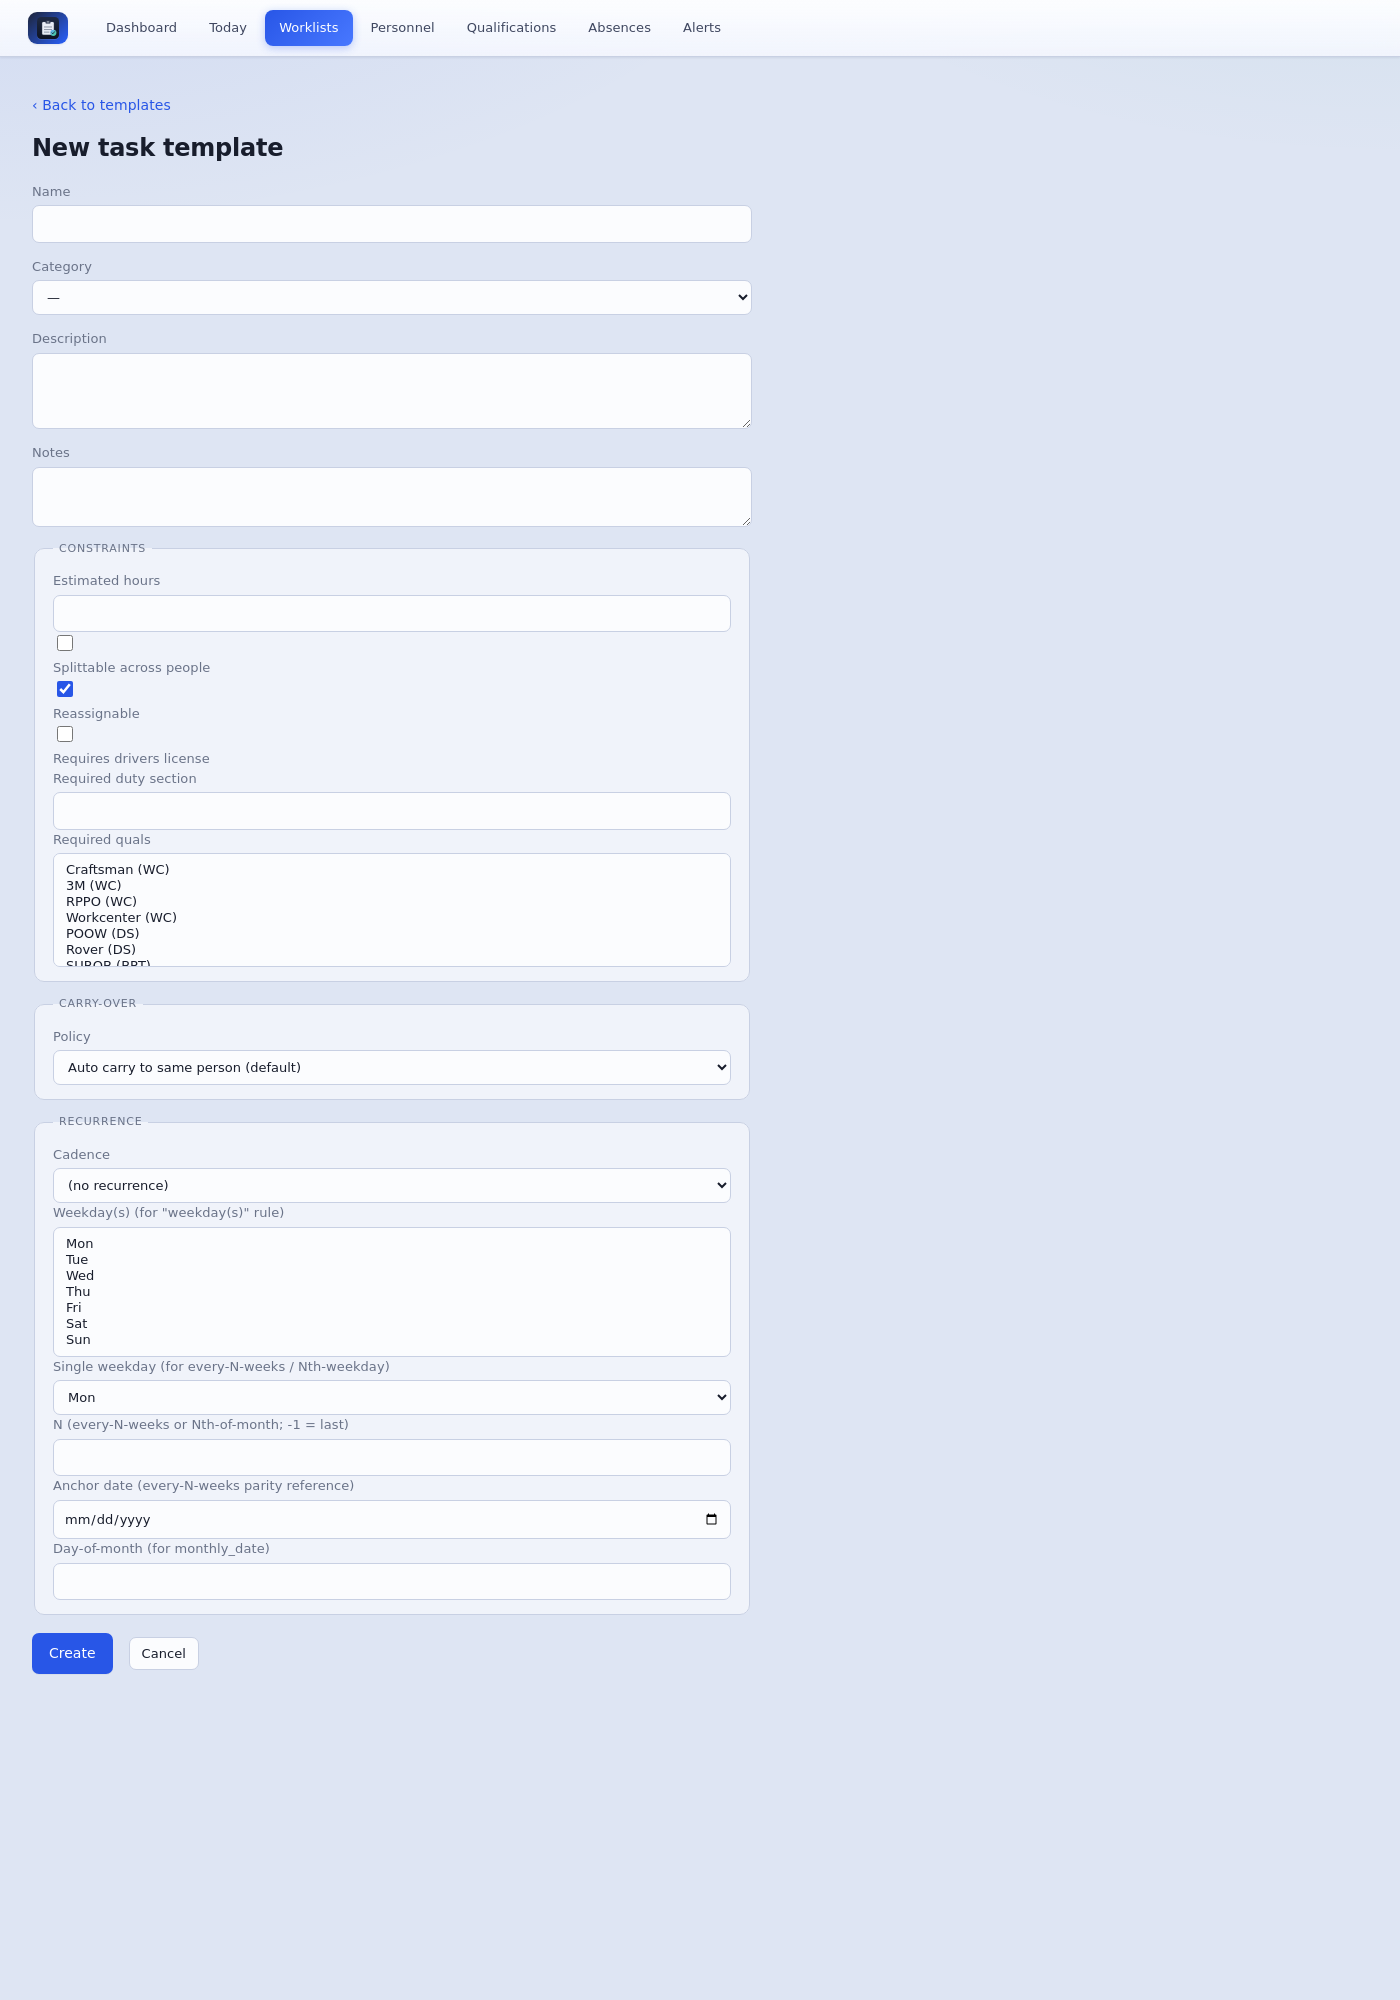
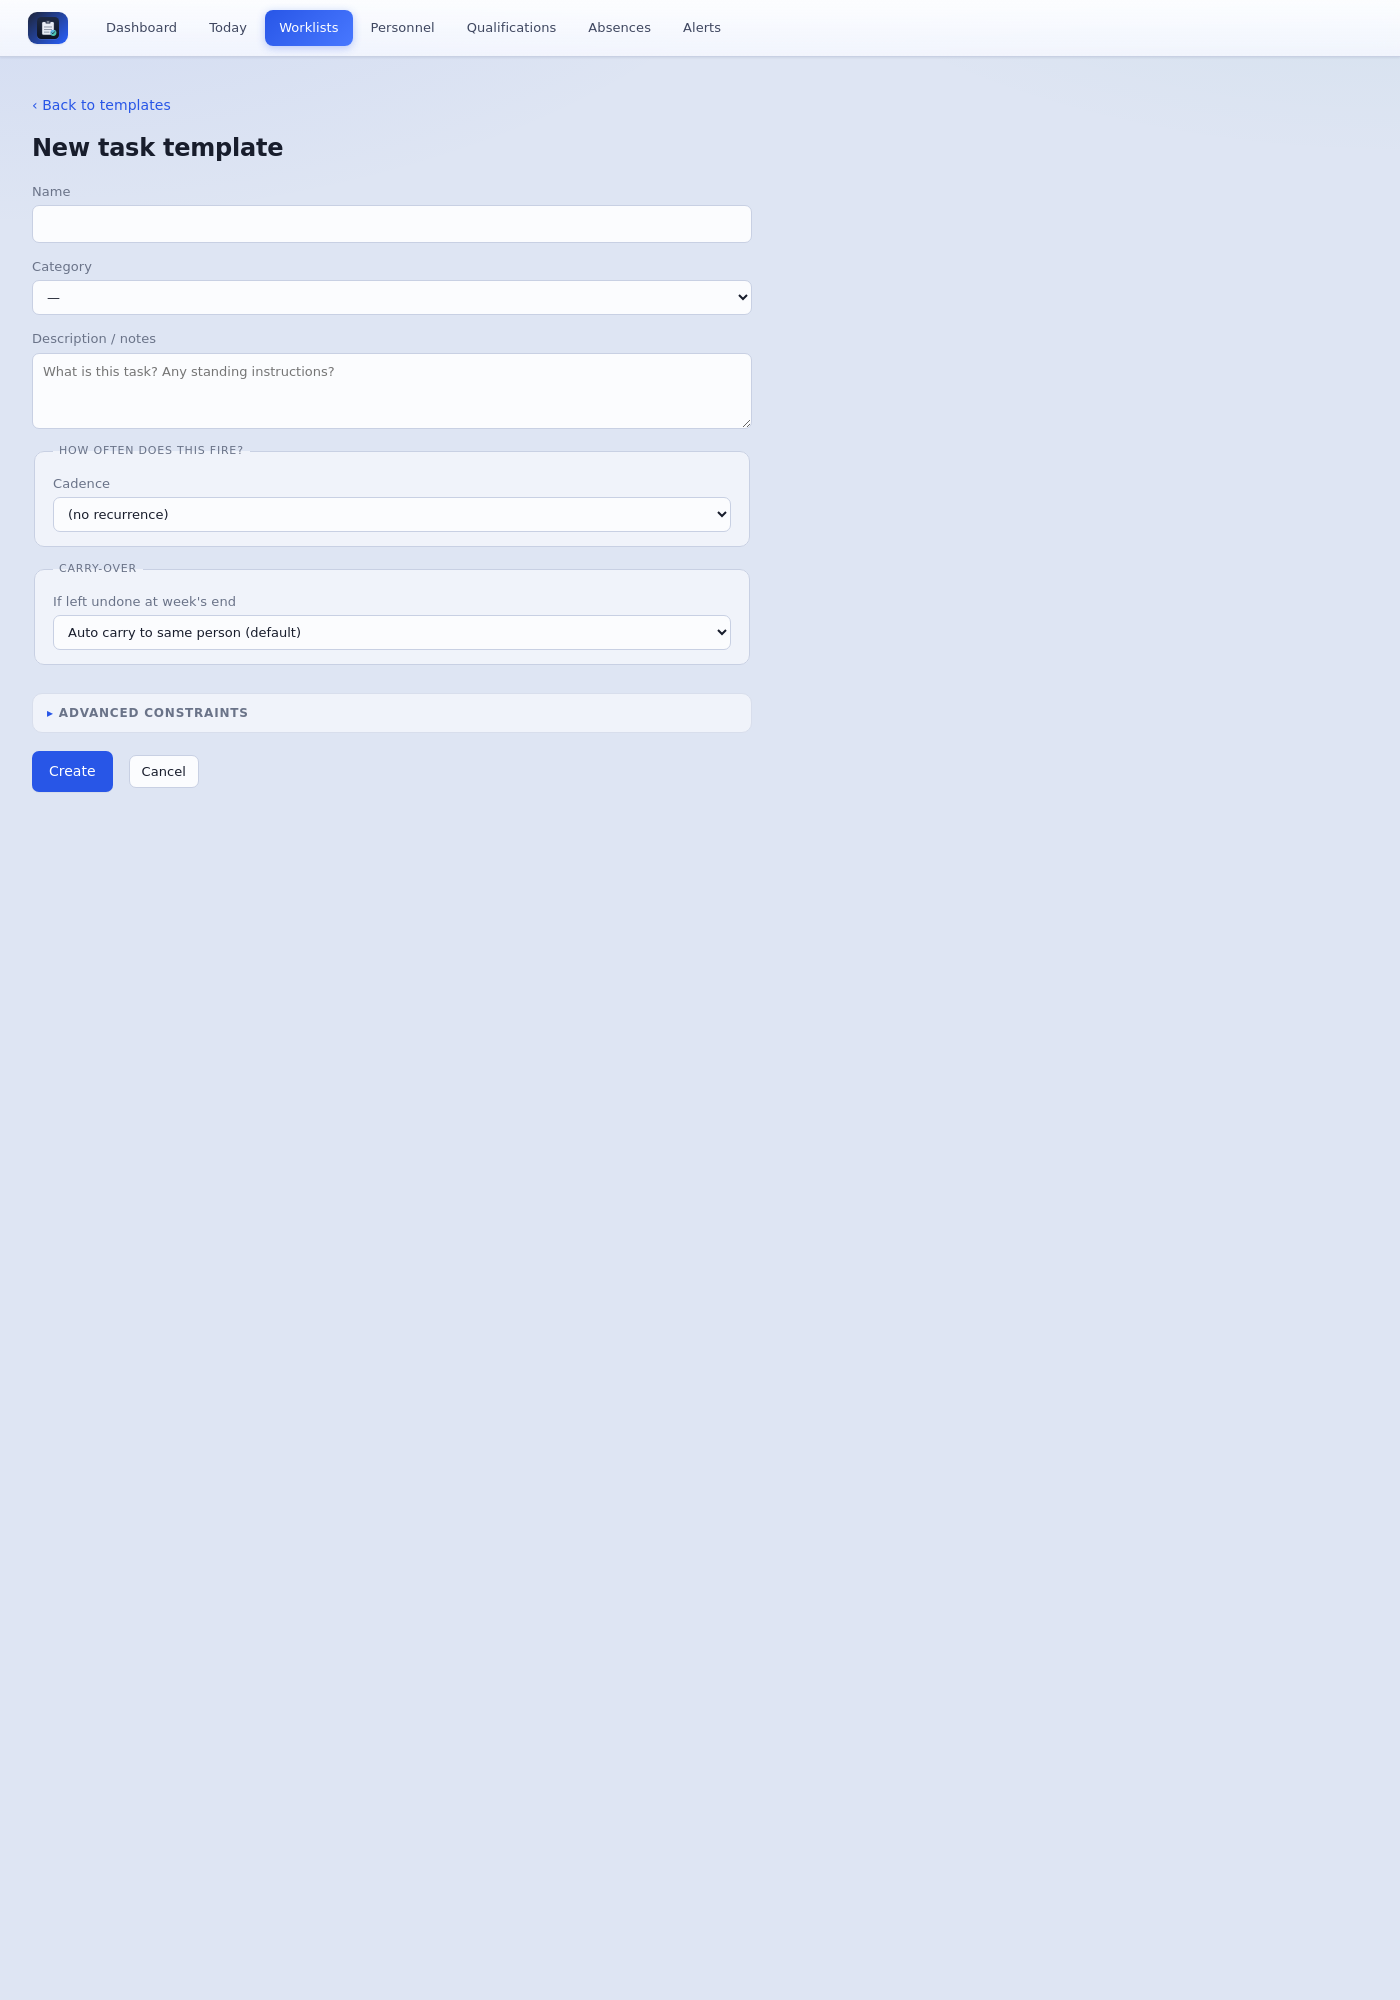
Streamline task template form: combined description, weekday checkboxes, advanced disclosure
Task template form was a wall of fieldsets. Reorganized:

- Description and notes combined into one field; second textarea
  removed everywhere (template form, task instance edit form,
  template list column).
- Recurrence section progressively reveals only the inputs relevant
  to the chosen cadence:
  * weekdays  -> a row of pill checkboxes (Mon..Sun) instead of a
    multi-select; the chosen pills tint accent.
  * every-N-weeks -> "Every [N] weeks on [weekday] starting from [date]"
    in a single readable row.
  * Nth weekday of month -> "The [1st|2nd|3rd|4th|last] [weekday] of
    every month".
  * Day-of-month -> "On day [N] of every month".
  * none -> nothing extra appears.
- Required quals / drivers license / duty section / estimated hours /
  splittable / reassignable now live behind an "Advanced constraints"
  disclosure since most templates don't need them.

Changed region(s): [[0.0, 0.217, 0.5221, 0.837], [0.4914, 0.248, 0.5221, 0.279], [0.1843, 0.31, 0.215, 0.341]]

diff --git a/app/templates/templates/_form.html b/app/templates/templates/_form.html
@@ -1,4 +1,6 @@
-{# shared fields between new + edit. context: template (Optional), cats, quals, required_qual_ids, carry_over_policies, recurrence_kinds, weekday_options #}
+{# Task template form (shared between new + edit). Simplified flow: the
+   essentials are visible; rare constraints (required quals / DL / DS,
+   estimated hours, etc.) live behind an "Advanced" disclosure. #}
 {% set t = template %}
 {% set rule = (t.recurrence_rule if t and t.recurrence_rule else {}) %}
 {% set cur_kind = rule.get("kind", "none") if rule else "none" %}
@@ -10,56 +12,108 @@
     {% for c in cats %}<option value="{{ c.id }}" {% if t and t.category_id == c.id %}selected{% endif %}>{{ c.name }}</option>{% endfor %}
   </select>
 </label>
-<label>Description <textarea name="description" rows="3">{{ t.description if t and t.description else '' }}</textarea></label>
-<label>Notes <textarea name="notes" rows="2">{{ t.notes if t and t.notes else '' }}</textarea></label>
+<label>Description / notes
+  <textarea name="description" rows="3" placeholder="What is this task? Any standing instructions?">{{ ((t.description if t and t.description else '') or (t.notes if t and t.notes else '')) }}</textarea>
+</label>
 
-<fieldset>
-  <legend>Constraints</legend>
-  <label>Estimated hours <input type="number" step="0.25" name="estimated_hours" value="{{ t.estimated_hours if t and t.estimated_hours else '' }}" /></label>
-  <label><input type="checkbox" name="splittable" value="1" {% if t and t.splittable %}checked{% endif %} /> Splittable across people</label>
-  <label><input type="checkbox" name="reassignable" value="1" {% if not t or t.reassignable %}checked{% endif %} /> Reassignable</label>
-  <label><input type="checkbox" name="required_drivers_license" value="1" {% if t and t.required_drivers_license %}checked{% endif %} /> Requires drivers license</label>
-  <label>Required duty section <input type="number" name="required_duty_section" min="1" max="20" value="{{ t.required_duty_section if t and t.required_duty_section else '' }}" /></label>
-  <label>Required quals
-    <select name="required_quals" multiple size="6">
-      {% for q in quals %}<option value="{{ q.id }}" {% if required_qual_ids and q.id in required_qual_ids %}selected{% endif %}>{{ q.name }}{% if q.category %} ({{ q.category }}){% endif %}</option>{% endfor %}
+<fieldset class="recur-fieldset">
+  <legend>How often does this fire?</legend>
+  <label>Cadence
+    <select name="rec_kind" id="rec_kind">
+      {% for val, label in recurrence_kinds %}<option value="{{ val }}" {% if cur_kind == val %}selected{% endif %}>{{ label }}</option>{% endfor %}
     </select>
   </label>
+
+  <div class="rec-block" data-rec-kinds="weekdays">
+    <label>Pick the weekday(s)</label>
+    <div class="weekday-checks">
+      {% for idx, name in weekday_options %}
+        <label class="weekday-check">
+          <input type="checkbox" name="rec_weekdays" value="{{ idx }}"
+                 {% if rule and rule.get("weekdays") and idx in rule.weekdays %}checked{% endif %} />
+          <span>{{ name }}</span>
+        </label>
+      {% endfor %}
+    </div>
+  </div>
+
+  <div class="rec-block rec-row" data-rec-kinds="every_n_weeks">
+    <label>Every
+      <input type="number" name="rec_n" min="1" value="{{ rule.get('n', 2) if rule else 2 }}" style="width:70px" />
+      weeks
+    </label>
+    <label>on
+      <select name="rec_weekday">
+        {% for idx, name in weekday_options %}<option value="{{ idx }}" {% if rule and rule.get("weekday") == idx %}selected{% endif %}>{{ name }}</option>{% endfor %}
+      </select>
+    </label>
+    <label>starting from
+      <input type="date" name="rec_anchor" value="{{ rule.get('anchor', '') if rule else '' }}" />
+    </label>
+  </div>
+
+  <div class="rec-block rec-row" data-rec-kinds="monthly_nth_weekday">
+    <label>The
+      <select name="rec_n">
+        {% for n, lbl in [(1,'1st'),(2,'2nd'),(3,'3rd'),(4,'4th'),(-1,'last')] %}
+          <option value="{{ n }}" {% if rule and rule.get("n") == n %}selected{% endif %}>{{ lbl }}</option>
+        {% endfor %}
+      </select>
+    </label>
+    <label>
+      <select name="rec_weekday">
+        {% for idx, name in weekday_options %}<option value="{{ idx }}" {% if rule and rule.get("weekday") == idx %}selected{% endif %}>{{ name }}</option>{% endfor %}
+      </select>
+    </label>
+    <span class="muted">of every month</span>
+  </div>
+
+  <div class="rec-block rec-row" data-rec-kinds="monthly_date">
+    <label>On day
+      <input type="number" name="rec_day" min="1" max="31" value="{{ rule.get('day', '') if rule else '' }}" style="width:70px" />
+    </label>
+    <span class="muted">of every month</span>
+  </div>
 </fieldset>
 
 <fieldset>
   <legend>Carry-over</legend>
-  <label>Policy
+  <label>If left undone at week's end
     <select name="carry_over_policy">
       {% for val, label in carry_over_policies %}<option value="{{ val }}" {% if t and t.carry_over_policy == val %}selected{% endif %}>{{ label }}</option>{% endfor %}
     </select>
   </label>
 </fieldset>
 
-<fieldset>
-  <legend>Recurrence</legend>
-  <label>Cadence
-    <select name="rec_kind">
-      {% for val, label in recurrence_kinds %}<option value="{{ val }}" {% if cur_kind == val %}selected{% endif %}>{{ label }}</option>{% endfor %}
-    </select>
-  </label>
-  <label>Weekday(s) (for "weekday(s)" rule)
-    <select name="rec_weekdays" multiple size="7">
-      {% for idx, name in weekday_options %}<option value="{{ idx }}" {% if rule and rule.get("weekdays") and idx in rule.weekdays %}selected{% endif %}>{{ name }}</option>{% endfor %}
-    </select>
-  </label>
-  <label>Single weekday (for every-N-weeks / Nth-weekday)
-    <select name="rec_weekday">
-      {% for idx, name in weekday_options %}<option value="{{ idx }}" {% if rule and rule.get("weekday") == idx %}selected{% endif %}>{{ name }}</option>{% endfor %}
-    </select>
-  </label>
-  <label>N (every-N-weeks or Nth-of-month; -1 = last)
-    <input type="number" name="rec_n" value="{{ rule.get('n', '') if rule else '' }}" />
-  </label>
-  <label>Anchor date (every-N-weeks parity reference)
-    <input type="date" name="rec_anchor" value="{{ rule.get('anchor', '') if rule else '' }}" />
-  </label>
-  <label>Day-of-month (for monthly_date)
-    <input type="number" name="rec_day" min="1" max="31" value="{{ rule.get('day', '') if rule else '' }}" />
-  </label>
-</fieldset>
+<details class="advanced-fieldset">
+  <summary>Advanced constraints</summary>
+  <div class="advanced-body">
+    <label>Estimated hours <input type="number" step="0.25" name="estimated_hours" value="{{ t.estimated_hours if t and t.estimated_hours else '' }}" /></label>
+    <label><input type="checkbox" name="splittable" value="1" {% if t and t.splittable %}checked{% endif %} /> Splittable across people</label>
+    <label><input type="checkbox" name="reassignable" value="1" {% if not t or t.reassignable %}checked{% endif %} /> Reassignable</label>
+    <label><input type="checkbox" name="required_drivers_license" value="1" {% if t and t.required_drivers_license %}checked{% endif %} /> Requires drivers license</label>
+    <label>Required duty section <input type="number" name="required_duty_section" min="1" max="20" value="{{ t.required_duty_section if t and t.required_duty_section else '' }}" /></label>
+    <label>Required quals
+      <select name="required_quals" multiple size="6">
+        {% for q in quals %}<option value="{{ q.id }}" {% if required_qual_ids and q.id in required_qual_ids %}selected{% endif %}>{{ q.name }}</option>{% endfor %}
+      </select>
+    </label>
+  </div>
+</details>
+
+<script>
+(function() {
+  const sel = document.getElementById("rec_kind");
+  if (!sel) return;
+  const blocks = Array.from(document.querySelectorAll(".rec-block"));
+  function apply() {
+    const k = sel.value;
+    for (const b of blocks) {
+      const kinds = (b.dataset.recKinds || "").split(/\s+/);
+      b.style.display = (kinds.includes(k)) ? "" : "none";
+    }
+  }
+  sel.addEventListener("change", apply);
+  apply();
+})();
+</script>

diff --git a/app/static/app.css b/app/static/app.css
@@ -481,6 +481,42 @@ details.inline-create[open] { padding-bottom: 14px; }
 details.inline-create[open] > summary { border-bottom: 1px solid var(--border-soft); margin-bottom: 10px; }
 details.inline-create .quick-add { background: transparent; border: 0; padding: 0; margin: 0; }
 
+/* Recurrence form */
+.recur-fieldset .rec-block { margin-top: 10px; padding: 8px 12px; background: var(--panel); border: 1px solid var(--border-soft); border-radius: 8px; }
+.weekday-checks { display: flex; flex-wrap: wrap; gap: 6px; margin-top: 4px; }
+.weekday-check {
+  display: inline-flex; align-items: center; gap: 6px;
+  padding: 6px 12px; border: 1px solid var(--border); border-radius: 999px;
+  background: var(--panel-2); cursor: pointer; user-select: none;
+  color: var(--text); font-size: 13px;
+}
+.weekday-check:has(input:checked) {
+  background: rgba(40,86,231,.10); border-color: var(--accent); color: var(--accent);
+  font-weight: 600;
+}
+.weekday-check input { margin: 0; }
+
+.rec-block.rec-row { display: flex; flex-wrap: wrap; gap: 12px; align-items: end; }
+.rec-block.rec-row label { display: inline-flex; align-items: center; gap: 6px; margin: 0; }
+
+details.advanced-fieldset {
+  margin-top: 14px;
+  border: 1px solid var(--border-soft);
+  border-radius: var(--radius);
+  background: var(--panel-2);
+}
+details.advanced-fieldset > summary {
+  list-style: none; cursor: pointer; padding: 10px 14px;
+  color: var(--muted); font-size: 12px; font-weight: 600;
+  text-transform: uppercase; letter-spacing: .8px;
+}
+details.advanced-fieldset > summary::-webkit-details-marker { display: none; }
+details.advanced-fieldset > summary::before {
+  content: "▸ "; color: var(--accent); font-weight: 700;
+}
+details.advanced-fieldset[open] > summary::before { content: "▾ "; }
+.advanced-body { padding: 0 14px 14px; display: grid; gap: 10px; }
+
 /* Combobox chips */
 .combobox-chips { list-style: none; padding: 0; margin: 6px 0 0; display: flex; flex-wrap: wrap; gap: 4px; }
 .combobox-chip { background: var(--panel-2); border: 1px solid var(--border); border-radius: 999px; padding: 3px 11px; font-size: 12px; cursor: pointer; color: var(--text); }

diff --git a/app/templates/tasks/edit.html b/app/templates/tasks/edit.html
@@ -33,8 +33,9 @@
     <input type="number" step="0.25" min="0" name="hours" value="{{ instance.hours if instance.hours else '' }}" />
     <span class="muted small">Every assignee on this task gets full credit for these hours.</span>
   </label>
-  <label>Description <textarea name="description" rows="3">{{ instance.description or '' }}</textarea></label>
-  <label>Notes <textarea name="notes" rows="2">{{ instance.notes or '' }}</textarea></label>
+  <label>Description / notes
+    <textarea name="description" rows="4">{{ instance.description or instance.notes or '' }}</textarea>
+  </label>
   <label>Completion notes <textarea name="completion_notes" rows="2">{{ instance.completion_notes or '' }}</textarea></label>
   <div class="form-actions">
     <button type="submit">Save</button>

diff --git a/app/templates/templates/list.html b/app/templates/templates/list.html
@@ -12,7 +12,7 @@
       <th>Category</th>
       <th>Recurrence</th>
       <th>Carry policy</th>
-      <th>Notes</th>
+      <th>Description</th>
       <th></th>
     </tr>
   </thead>
@@ -23,7 +23,7 @@
       <td class="muted">{{ cats.get(t.category_id) or "—" }}</td>
       <td>{{ descriptions.get(t.id, "—") }}</td>
       <td class="muted">{{ t.carry_over_policy }}</td>
-      <td class="muted">{{ t.notes or "" }}</td>
+      <td class="muted">{{ t.description or t.notes or "" }}</td>
       <td><a href="/task-templates/{{ t.id }}/edit">Edit</a></td>
     </tr>
     {% endfor %}

diff --git a/app/routes/tasks.py b/app/routes/tasks.py
@@ -119,7 +119,6 @@ def update_task(
     status: str = Form("open"),
     hours: Optional[float] = Form(None),
     description: Optional[str] = Form(None),
-    notes: Optional[str] = Form(None),
     completion_notes: Optional[str] = Form(None),
 ):
     with SessionLocal() as s:
@@ -134,7 +133,7 @@ def update_task(
         inst.status = status
         inst.hours = hours
         inst.description = (description or None)
-        inst.notes = (notes or None)
+        inst.notes = None  # consolidated into description
         inst.completion_notes = (completion_notes or None)
         if status == "done" and inst.completed_at is None:
             inst.completed_at = datetime.now()
